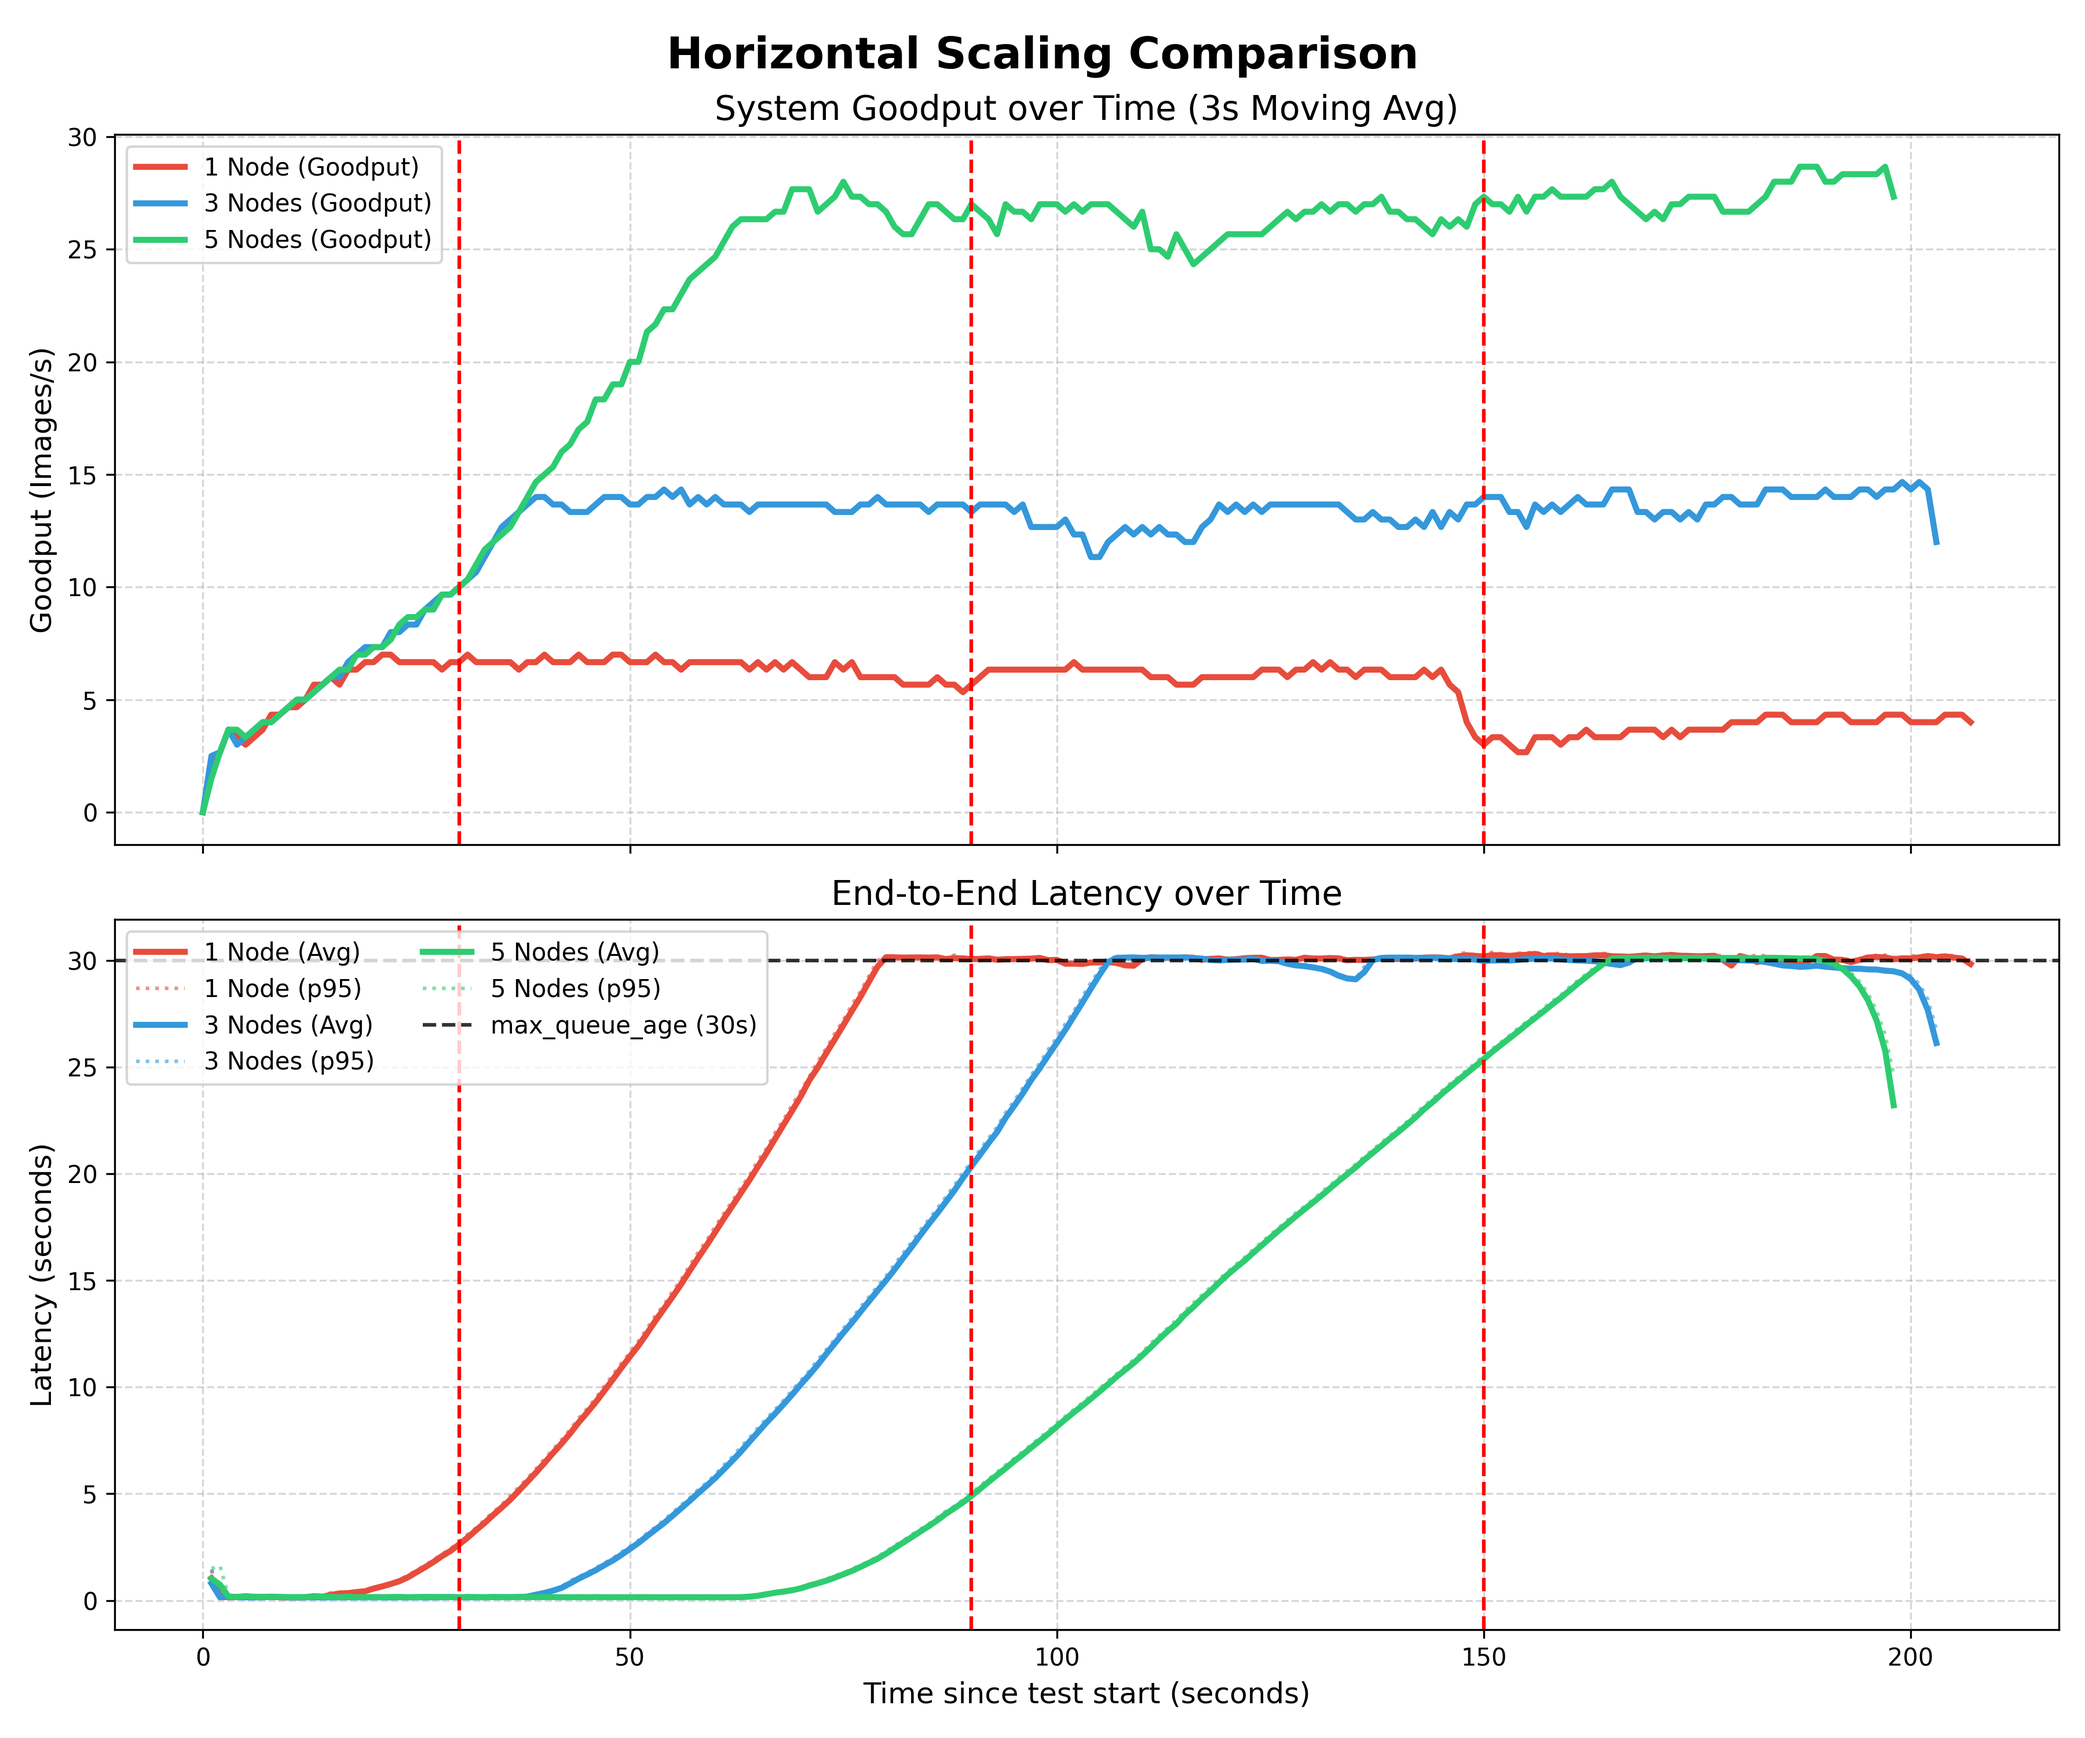
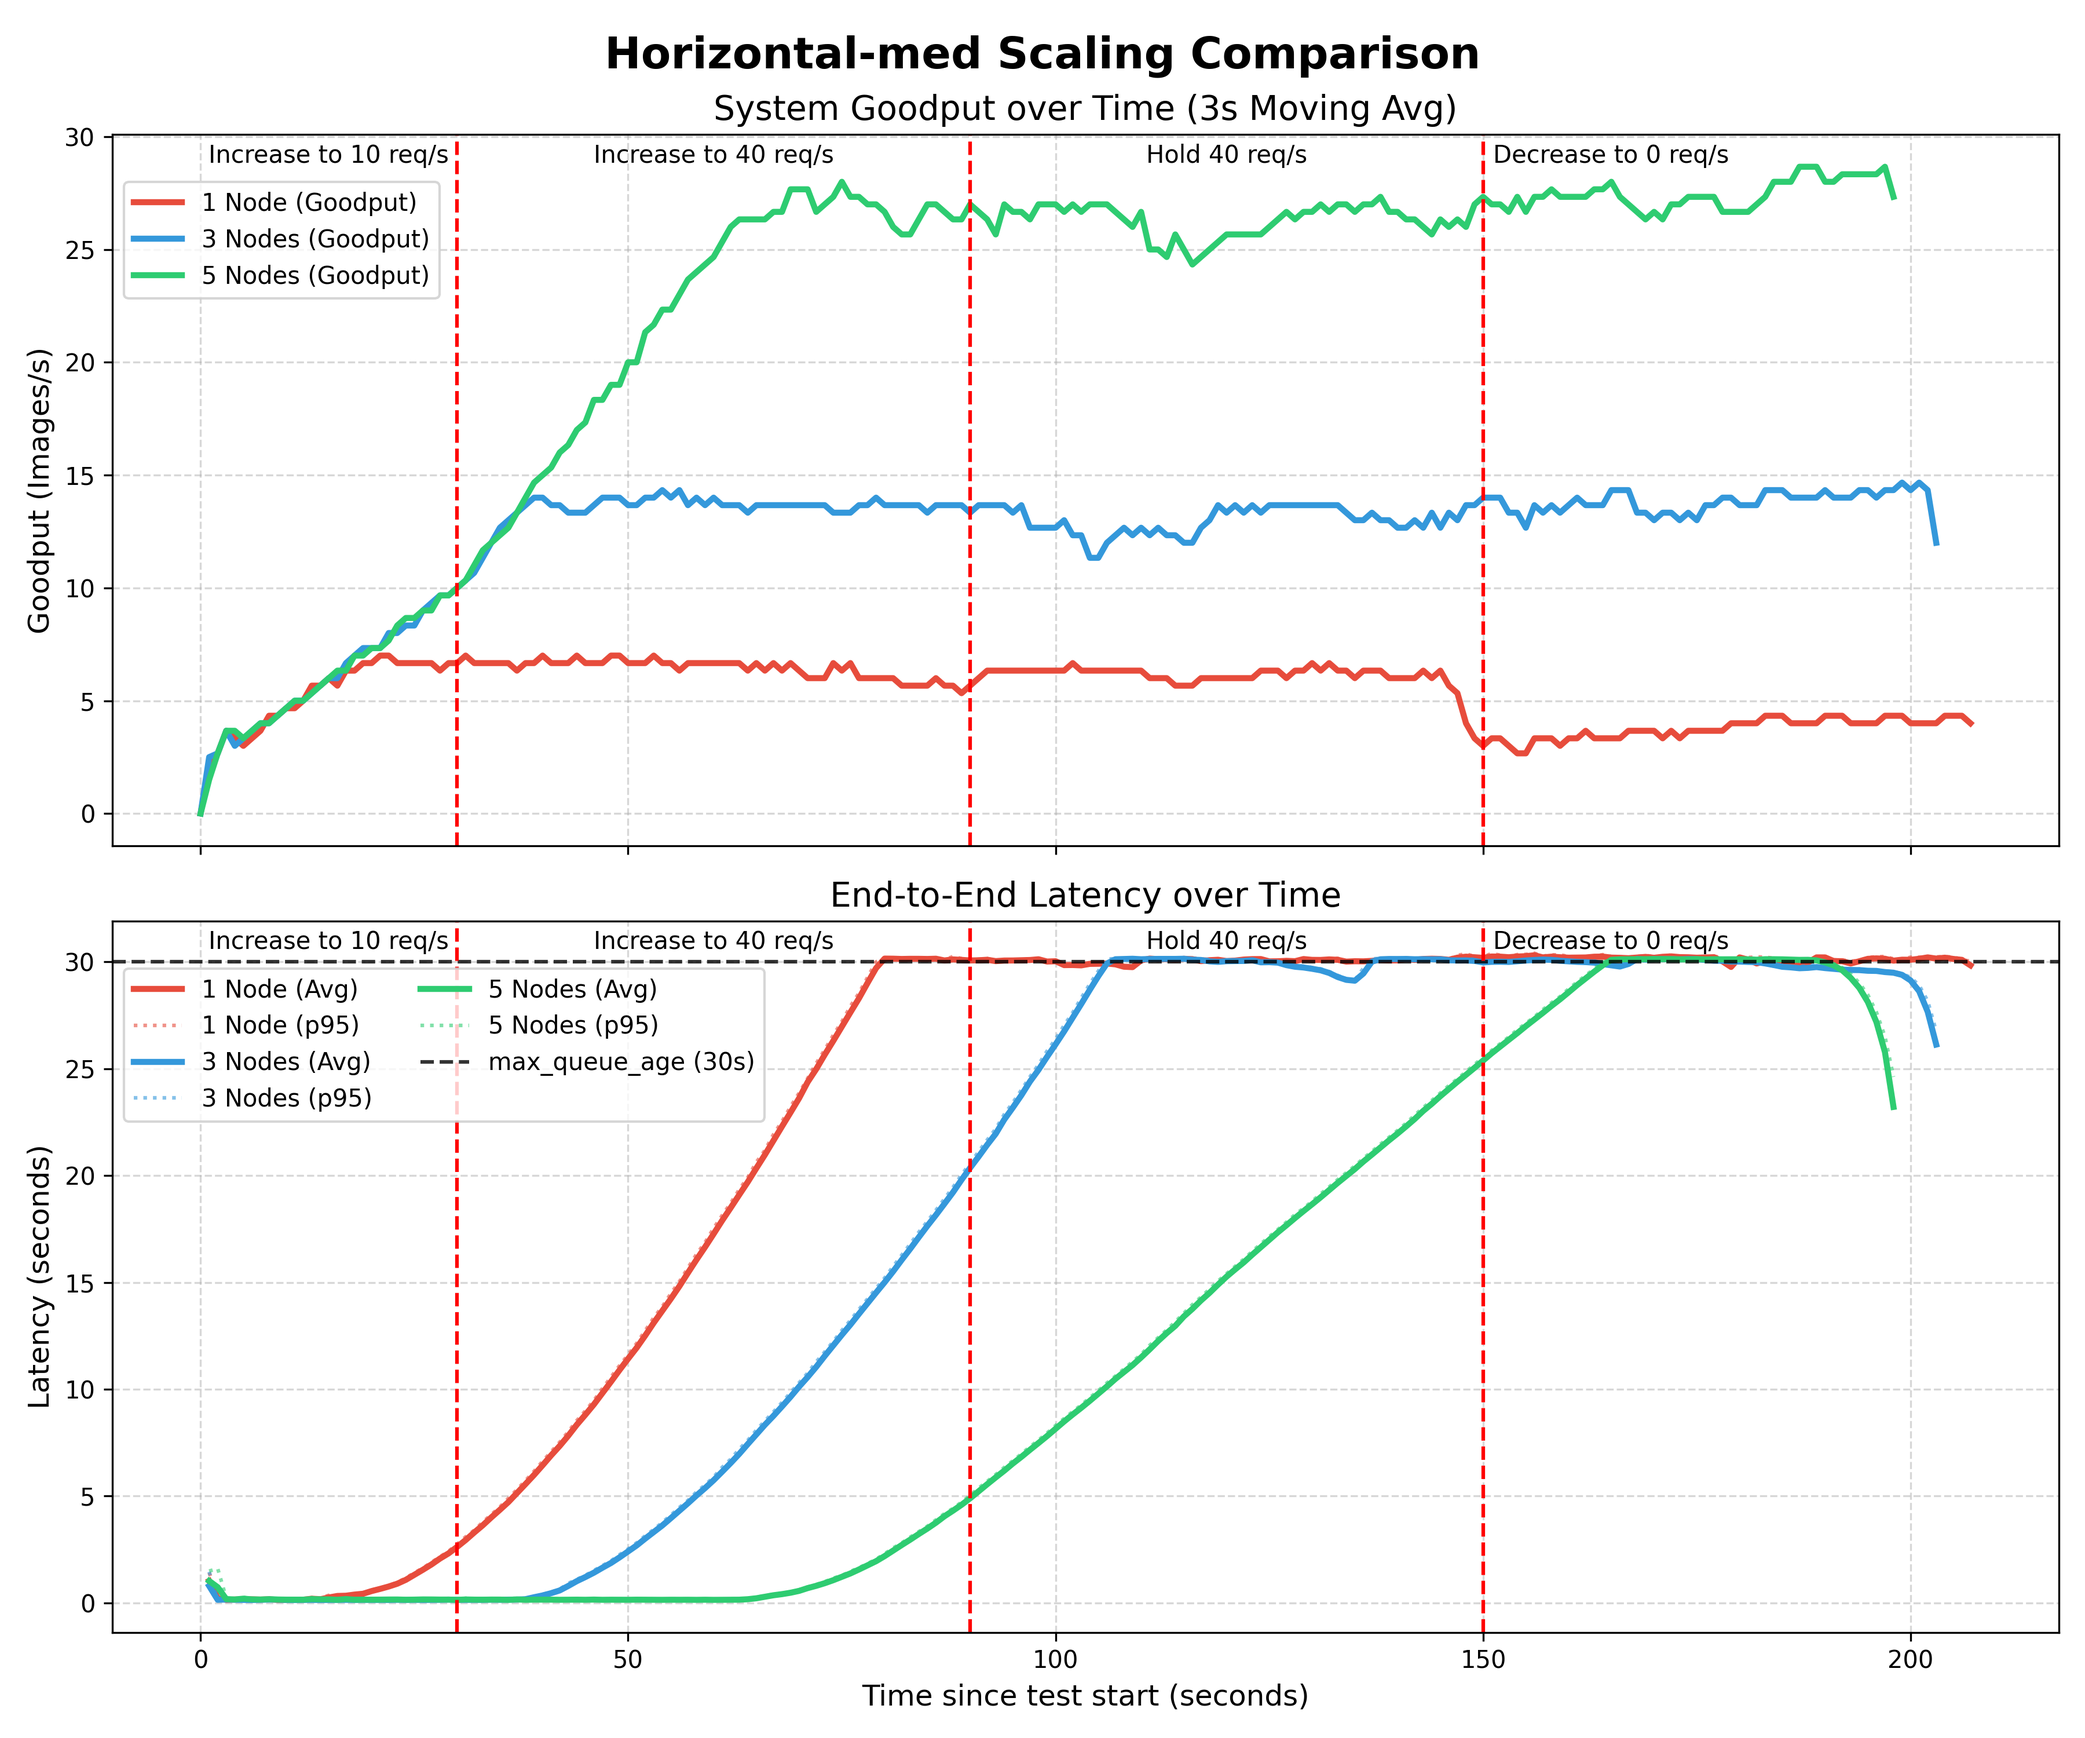
added annotation to plots

diff --git a/evaluate.py b/evaluate.py
@@ -5,7 +5,7 @@ import pandas as pd
 from sqlalchemy import create_engine
 
 # CONFIG
-# Specify here the external IPs of your GCP Nodes (1, 3 oder 5)
+# Specify here the external IPs of your GCP Nodes (1, 3 or 5)
 NODE_IPS = ["34.179.194.89", "34.141.52.246", "34.179.214.150", "34.159.154.65", "34.159.180.20"]
 
 MACHINE_TYPE = "e2-medium"
@@ -92,7 +92,7 @@ def plot_metrics(df):
     ax1.axvline(x=150, color="red", linestyle="--")
     ax1.set_ylabel("Goodput (Images/s)")
     ax1.set_title("System Goodput over Time")
-    ax1.legend()
+    ax1.legend(loc="upper right", bbox_to_anchor=(1.0, 1.1))
     ax1.grid(True, linestyle="--", alpha=0.5)
 
     # Plot 2: Latency
@@ -110,6 +110,75 @@ def plot_metrics(df):
     ax2.set_title("End-to-End Latency over Time")
     ax2.legend()
     ax2.grid(True, linestyle="--", alpha=0.5)
+
+    # annotation
+    ax1.text(
+        15,
+        0.97,
+        "Increase to 10 req/s",
+        ha="center",
+        va="center",
+        transform=ax1.get_xaxis_transform()
+    )
+    ax2.text(
+        15,
+        0.97,
+        "Increase to 10 req/s",
+        ha="center",
+        va="center",
+        transform=ax2.get_xaxis_transform()
+    )
+
+    ax1.text(
+        60,
+        0.97,
+        "Increase to 40 req/s",
+        ha="center",
+        va="center",
+        transform=ax1.get_xaxis_transform()
+    )
+    ax2.text(
+        60,
+        0.97,
+        "Increase to 40 req/s",
+        ha="center",
+        va="center",
+        transform=ax2.get_xaxis_transform()
+    )
+
+    ax1.text(
+        120,
+        0.97,
+        "Hold 40 req/s",
+        ha="center",
+        va="center",
+        transform=ax1.get_xaxis_transform()
+    )
+    ax2.text(
+        120,
+        0.97,
+        "Hold 40 req/s",
+        ha="center",
+        va="center",
+        transform=ax2.get_xaxis_transform()
+    )
+
+    ax1.text(
+        165,
+        0.97,
+        "Decrease to 0 req/s",
+        ha="center",
+        va="center",
+        transform=ax1.get_xaxis_transform()
+    )
+    ax2.text(
+        165,
+        0.97,
+        "Decrease to 0 req/s",
+        ha="center",
+        va="center",
+        transform=ax2.get_xaxis_transform()
+    )
 
     plt.tight_layout()
     os.makedirs("results", exist_ok=True)

diff --git a/comparison-script.py b/comparison-script.py
@@ -108,7 +108,7 @@ def main():
     ax1.axvline(x=150, color="red", linestyle="--")
     ax1.set_ylabel("Goodput (Images/s)", fontsize=12)
     ax1.set_title("System Goodput over Time (3s Moving Avg)", fontsize=14)
-    ax1.legend(loc="upper left")
+    ax1.legend(loc="upper left", bbox_to_anchor=(0, 0.95))
     ax1.grid(True, linestyle="--", alpha=0.5)
 
     ax2.axhline(
@@ -124,8 +124,77 @@ def main():
     ax2.axvline(x=150, color="red", linestyle="--")
     ax2.set_ylabel("Latency (seconds)", fontsize=12)
     ax2.set_title("End-to-End Latency over Time", fontsize=14)
-    ax2.legend(loc="upper left", ncol=2, fontsize=10)
+    ax2.legend(loc="upper left", ncol=2, fontsize=10, bbox_to_anchor=(0, 0.95))
     ax2.grid(True, linestyle="--", alpha=0.5)
+
+    # annotation
+    ax1.text(
+        15,
+        0.97,
+        "Increase to 10 req/s",
+        ha="center",
+        va="center",
+        transform=ax1.get_xaxis_transform()
+    )
+    ax2.text(
+        15,
+        0.97,
+        "Increase to 10 req/s",
+        ha="center",
+        va="center",
+        transform=ax2.get_xaxis_transform()
+    )
+
+    ax1.text(
+        60,
+        0.97,
+        "Increase to 40 req/s",
+        ha="center",
+        va="center",
+        transform=ax1.get_xaxis_transform()
+    )
+    ax2.text(
+        60,
+        0.97,
+        "Increase to 40 req/s",
+        ha="center",
+        va="center",
+        transform=ax2.get_xaxis_transform()
+    )
+
+    ax1.text(
+        120,
+        0.97,
+        "Hold 40 req/s",
+        ha="center",
+        va="center",
+        transform=ax1.get_xaxis_transform()
+    )
+    ax2.text(
+        120,
+        0.97,
+        "Hold 40 req/s",
+        ha="center",
+        va="center",
+        transform=ax2.get_xaxis_transform()
+    )
+
+    ax1.text(
+        165,
+        0.97,
+        "Decrease to 0 req/s",
+        ha="center",
+        va="center",
+        transform=ax1.get_xaxis_transform()
+    )
+    ax2.text(
+        165,
+        0.97,
+        "Decrease to 0 req/s",
+        ha="center",
+        va="center",
+        transform=ax2.get_xaxis_transform()
+    )
 
     plt.tight_layout()
     os.makedirs("results", exist_ok=True)
